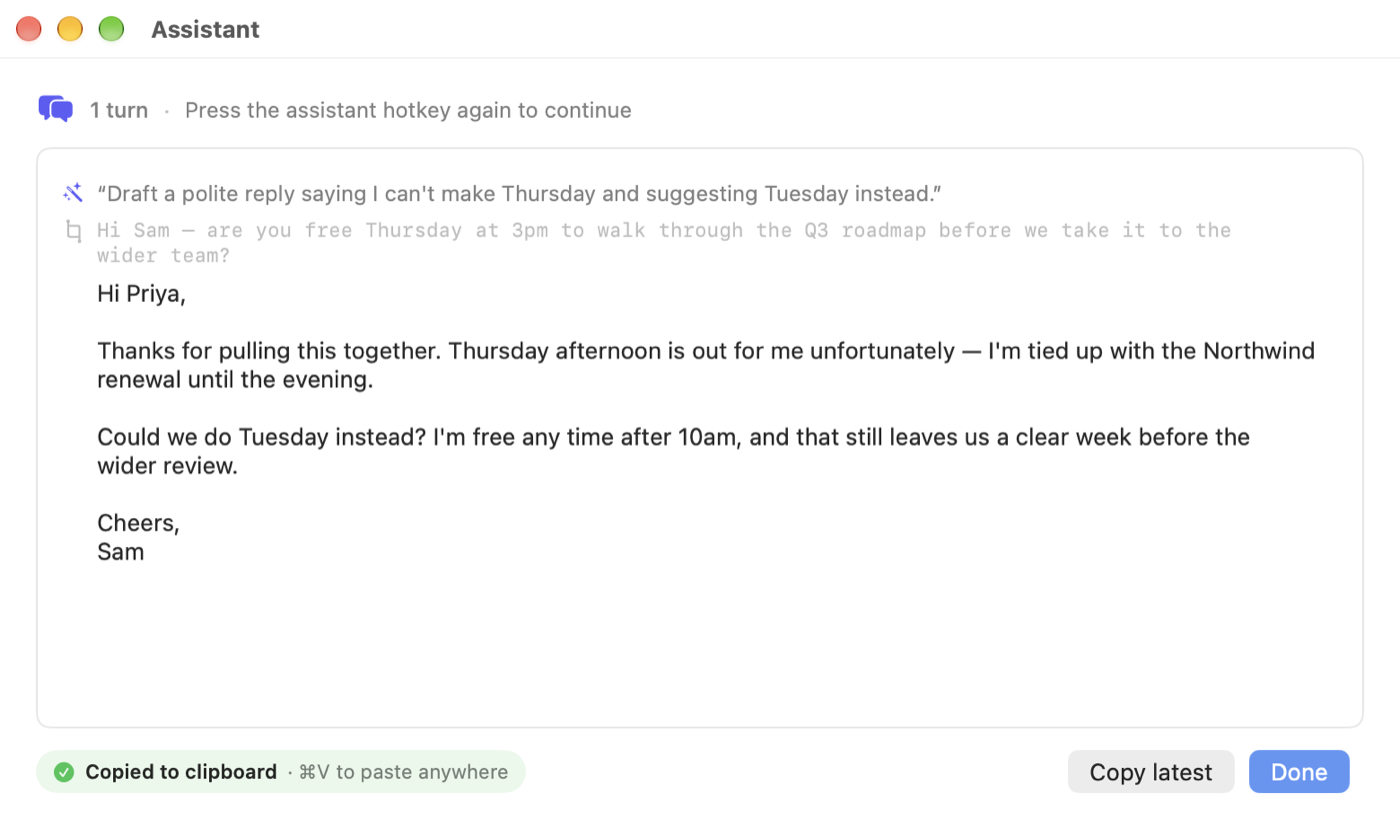
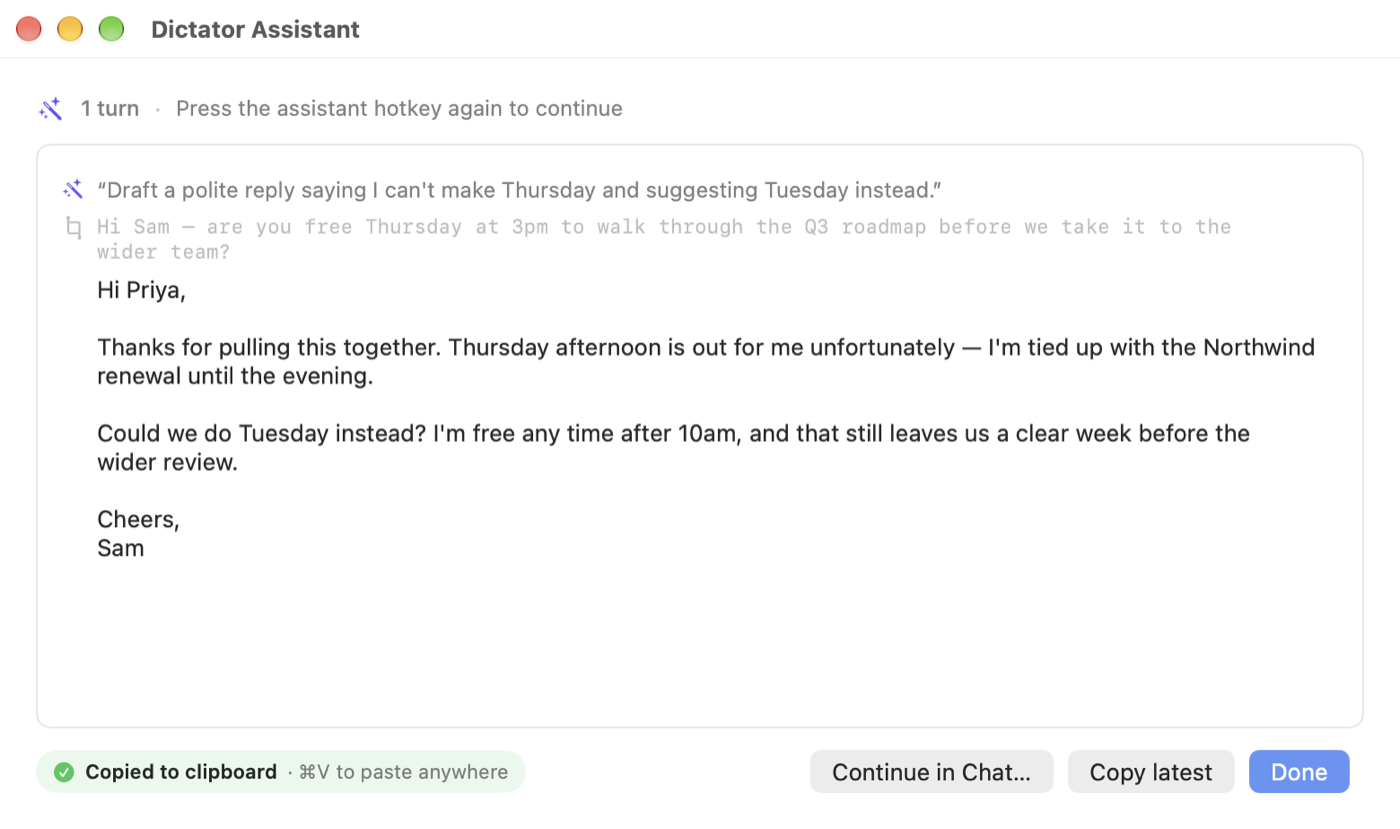
Journal and chat screenshots, and a fresh set of the rest
Screenshot mode gains `journal` and `chat` shots, seeded from DemoFixtures:
ten days of entries written through JournalWriter under a relative template
(the default's `~` isn't redirected, so it would write into the real
journal), and one chat that reads the journal and saves a note. In a capture
the chat treats the model as downloaded and names Notes as the insert
target, rather than whatever the person running it has in front.

The journal loads its days in a Task, which can't run while the capture is
still inside run()'s main-queue block, so that shot finishes from a timer.

assistant-draft had been failing since the window was retitled "Dictator
Assistant", and the script kept publishing the PNG left over from the last
good run. It now deletes each raw capture first. The script also falls back
to Xcode.app now that Xcode-beta is gone. Every shot is re-rendered.

Claude-Session: https://claude.ai/code/session_01B4YGAec7pNRsE2zTy139Gu

diff --git a/Sources/Dictator/Screenshots/ScreenshotRunner.swift b/Sources/Dictator/Screenshots/ScreenshotRunner.swift
@@ -50,6 +50,8 @@ enum ScreenshotRunner {
         case "hud-styles":      captureHUDStyles()
         case "assistant-draft": captureAssistantDraft()
         case "demo-history":    captureDemoHistory()
+        case "journal":         captureJournal()
+        case "chat":            captureChat()
         default:
             NSLog("[Screenshot] Unknown shot '\(ScreenshotMode.shot ?? "")' for Dictator")
             exit(64)
@@ -80,6 +82,79 @@ enum ScreenshotRunner {
         for record in DemoFixtures.historyRecords().reversed() {
             DictationHistory.shared.append(record)
         }
+    }
+
+    /// The journal fixtures, written through `JournalWriter` into this capture
+    /// process's throwaway synced folder so the window reads them the way it
+    /// reads a real journal.
+    private static func seedJournal() {
+        AppState.shared.settings.journalPathTemplate = DemoFixtures.journalPathTemplate
+        let settings = AppState.shared.settings
+        let calendar = Calendar.current
+        let today = calendar.startOfDay(for: Date())
+        for entry in DemoFixtures.journalEntries {
+            guard let day = calendar.date(byAdding: .day, value: -entry.daysAgo, to: today),
+                  let date = calendar.date(
+                      bySettingHour: entry.hour, minute: entry.minute, second: 0, of: day)
+            else { continue }
+            do {
+                try JournalWriter.append(
+                    text: entry.text,
+                    pathTemplate: settings.journalPathTemplate,
+                    headerTemplate: settings.journalHeaderTemplate,
+                    entryTemplate: settings.journalEntryTemplate,
+                    appName: nil,
+                    date: date)
+            } catch {
+                fail("journal seed: \(error.localizedDescription)")
+            }
+        }
+    }
+
+    /// One chat: the journal read as a tool, a note saved from it, and the
+    /// reply. The note is written to disk for real, because the file card
+    /// re-reads it on every render.
+    private static func seedChat() -> UUID {
+        let modelID = "mlx-community/Qwen3.5-4B-4bit"
+        AppState.shared.settings.llmEngine = .mlx
+        AppState.shared.settings.llmModelID = modelID
+
+        let start = Date().addingTimeInterval(-90)
+        var thread = ChatThread(createdAt: start, modelID: modelID)
+        thread.append(ChatMessage(kind: .user, text: DemoFixtures.chatUserMessage, timestamp: start))
+
+        var search = ChatMessage(
+            kind: .tool, text: "Read the journal", timestamp: start.addingTimeInterval(4),
+            toolCall: ChatWireToolCall(
+                name: "search_journal",
+                arguments: .object(["query": .string("Northwind"), "days_back": .int(14)])))
+        search.toolResult = DemoFixtures.chatJournalResult
+        thread.append(search)
+
+        guard let folder = try? ChatFiles.folder(for: thread) else { fail("no chat folder") }
+        thread.filesFolderName = folder.folderName
+        try? FileManager.default.createDirectory(at: folder.url, withIntermediateDirectories: true)
+        let noteURL = folder.url.appendingPathComponent(DemoFixtures.chatNoteName)
+        let noteData = Data(DemoFixtures.chatNote.utf8)
+        do { try noteData.write(to: noteURL) } catch { fail("chat note: \(error.localizedDescription)") }
+
+        var save = ChatMessage(
+            kind: .tool, text: "Save a file", timestamp: start.addingTimeInterval(9),
+            toolCall: ChatWireToolCall(
+                name: "create_file",
+                arguments: .object([
+                    "name": .string(DemoFixtures.chatNoteName),
+                    "contents": .string(DemoFixtures.chatNote),
+                ])),
+            producedFile: ProducedFile(
+                name: DemoFixtures.chatNoteName, path: noteURL.path, byteCount: noteData.count))
+        save.toolResult = "Saved \(DemoFixtures.chatNoteName)."
+        thread.append(save)
+
+        thread.append(ChatMessage(
+            kind: .assistant, text: DemoFixtures.chatReply, timestamp: start.addingTimeInterval(14)))
+        ChatStore.shared.upsert(thread)
+        return thread.id
     }
 
     // MARK: - Shots
@@ -124,10 +199,47 @@ enum ScreenshotRunner {
         let controller = AssistantResultController()
         controller.showThread(id: id, surface: true)
         ScreenshotWindowCapture.settle(seconds: 1.0)
-        guard let window = ScreenshotWindowCapture.window(where: { $0.title == "Assistant" }) else {
+        guard let window = ScreenshotWindowCapture.window(where: { $0.title == "Dictator Assistant" }) else {
             fail("no assistant window")
         }
         ScreenshotWindowCapture.place(window, size: NSSize(width: 780, height: 430))
+        ScreenshotWindowCapture.settle(seconds: 1.0)
+        write(window)
+    }
+
+    private static func captureJournal() {
+        seedJournal()
+        JournalWindowController.shared.show()
+        // The journal loads its days in a `Task`, and main-actor tasks can't
+        // run while we're still inside the main-queue block `run()` scheduled —
+        // `settle()` spins the run loop, not the main queue. Return, and finish
+        // from a timer, whose callback leaves the main queue free to drain.
+        Timer.scheduledTimer(withTimeInterval: 1.0, repeats: false) { _ in
+            MainActor.assumeIsolated { finishJournal() }
+        }
+    }
+
+    private static func finishJournal() {
+        ScreenshotWindowCapture.settle(seconds: 1.0)
+        guard !JournalStore.shared.populatedKeys.isEmpty else { fail("journal loaded no days") }
+        guard let window = ScreenshotWindowCapture.window(where: { $0.title == "Dictator Journal" }) else {
+            fail("no journal window")
+        }
+        ScreenshotWindowCapture.place(window, size: NSSize(width: 940, height: 640))
+        ScreenshotWindowCapture.settle(seconds: 1.0)
+        write(window)
+    }
+
+    private static func captureChat() {
+        let id = seedChat()
+        let controller = ChatWindowController.shared
+        controller.show()
+        controller.select(threadID: id)
+        ScreenshotWindowCapture.settle(seconds: 1.5)
+        guard let window = ScreenshotWindowCapture.window(where: { $0.title == "Dictator Chat" }) else {
+            fail("no chat window")
+        }
+        ScreenshotWindowCapture.place(window, size: NSSize(width: 940, height: 700))
         ScreenshotWindowCapture.settle(seconds: 1.0)
         write(window)
     }

diff --git a/Sources/Dictator/Demo/DemoFixtures.swift b/Sources/Dictator/Demo/DemoFixtures.swift
@@ -326,4 +326,59 @@ enum DemoFixtures {
 
     Follow up with Tom about the revised estimate.
     """
+
+    // MARK: - Journal
+
+    /// Where the journal fixtures live: relative, so it resolves under the
+    /// synced folder. The shipping default is `~/Documents/…`, which would
+    /// escape a screenshot run's throwaway data root and land in the real
+    /// journal.
+    static let journalPathTemplate = "Journal/{yyyy}/{MM}/{yyyy}-{MM}-{dd}.md"
+
+    /// A week and a bit of entries, `(days ago, hour, minute, text)`, oldest
+    /// first so they append in order. Today carries three so the page has a
+    /// shape; the rest exist to put dots on the calendar.
+    static let journalEntries: [(daysAgo: Int, hour: Int, minute: Int, text: String)] = [
+        (11, 21, 40, "First week with the new team structure. Tom seems relieved to have fewer meetings; Priya less so."),
+        (9, 7, 55, "Northwind want a pilot before they commit to the renewal. Fair. I'd want the same."),
+        (6, 22, 10, "Couldn't switch off tonight. Wrote the pilot plan three times in my head and none of them were better than the one on paper."),
+        (4, 13, 5, "Priya suggested moving the onboarding work into Q4 so the pilot gets our best people. She's right, and I should have seen it first."),
+        (2, 18, 30, "Lumenfield demo went well. Tom ran it, not me, and it was better for it."),
+        (1, 8, 20, "Short one. Northwind call moved to Thursday. More time to get the import dry-run finished."),
+        (0, 8, 14, "Slept badly again. The Northwind renewal is taking up more room in my head than it deserves. Talk to Priya before Thursday about what we can actually promise."),
+        (0, 12, 47, "Walked to the river at lunch instead of eating at my desk. Two ideas came out of it: a shorter Lumenfield trial, and letting Tom own the pilot outright. I keep saying I'll let go of things."),
+        (0, 18, 5, "Good day in the end. The dry-run works, and Priya has the deck. Remember this the next time I spend a whole night worrying about a call."),
+    ]
+
+    // MARK: - Chat
+
+    /// A chat that shows the two things the window is for: a tool reading the
+    /// user's own data, and a file made from it.
+    static let chatUserMessage = "What have I written about Northwind lately? Turn it into a short note I can take into Thursday's call."
+
+    static let chatJournalResult = """
+    4 entries mention Northwind:
+    - today 08:14: Slept badly again. The Northwind renewal is taking up more room…
+    - yesterday 08:20: Northwind call moved to Thursday…
+    - 6 days ago 22:10: Couldn't switch off tonight. Wrote the pilot plan three times…
+    - 9 days ago 07:55: Northwind want a pilot before they commit to the renewal…
+    """
+
+    static let chatNoteName = "northwind-thursday.md"
+
+    static let chatNote = """
+    # Northwind — Thursday
+
+    - They want a pilot before committing to the renewal
+    - Import dry-run now works; show it rather than describe it
+    - Tom owns the pilot; Priya has the roadmap deck
+    - Onboarding work moves to Q4 so the pilot gets the best people
+    - Don't promise an SSO date
+    """
+
+    static let chatReply = """
+    You've mentioned Northwind four times in the last ten days. The short version: they want a pilot before they'll renew, the call moved to Thursday, and since then the import dry-run has started working.
+
+    I've saved the note above as **northwind-thursday.md**. One thing it doesn't cover: you haven't written down what the pilot would cost them — worth deciding before the call.
+    """
 }

diff --git a/Sources/Dictator/UI/Chat/ChatDetailRoot.swift b/Sources/Dictator/UI/Chat/ChatDetailRoot.swift
@@ -61,7 +61,9 @@ enum ChatAvailability {
             let name = ModelCatalog.llm(id: id)?.displayName ?? id
             return .unavailable(.modelNotCapable(name))
         }
-        guard ModelManager.shared.llmStates[id] == .ready else {
+        // A screenshot run loads no models, and the window it's there to
+        // capture is the one a user with a downloaded model sees.
+        guard ModelManager.shared.llmStates[id] == .ready || ScreenshotMode.isActive else {
             return .unavailable(.modelNotDownloaded(model.displayName))
         }
         return .ready

diff --git a/Sources/DictatorCore/Screenshots/ScreenshotMode.swift b/Sources/DictatorCore/Screenshots/ScreenshotMode.swift
@@ -13,7 +13,8 @@ import Foundation
 /// Contract (see `scripts/mac-screenshots.sh`):
 ///
 ///   - `DICTATOR_SCREENSHOT=<shot>` — which capture to perform.
-///     Dictator: `modes`, `assistant-draft`, `hud-styles`.
+///     Dictator: `modes`, `assistant-draft`, `hud-styles`, `journal`, `chat`,
+///     `demo-history`.
 ///     Dictator Meetings: `live-recording`, `notes`, `coach`.
 ///   - `DICTATOR_SCREENSHOT_OUT=<path.png>` — where to write the PNG.
 ///   - `DICTATOR_SCREENSHOT_DATA=<dir>` — a throwaway data root. EVERY

diff --git a/Sources/Dictator/Chat/ChatInsertion.swift b/Sources/Dictator/Chat/ChatInsertion.swift
@@ -43,6 +43,9 @@ final class ChatInsertion {
     /// A name for the button, so it can say where the text is going rather than
     /// just "Insert". nil when there's nowhere to send it.
     var targetName: String? {
+        // A screenshot run would otherwise print whatever the person running
+        // it happened to have in front.
+        if ScreenshotMode.isActive { return "Notes" }
         guard let target, !target.isTerminated else { return nil }
         return target.localizedName
     }

diff --git a/docs/plans/site-screenshots.md b/docs/plans/site-screenshots.md
@@ -1,8 +1,8 @@
 # Marketing site screenshots — how they're made
 
-The six Mac/Meetings shots on `docs/index.html` are **generated by the apps
+The eight Mac/Meetings shots on `docs/index.html` are **generated by the apps
 themselves**, not grabbed by hand. Re-run one command after a UI change and all
-six — plus the off-site `demo-history` shot — are rebuilt from the current code
+eight — plus the off-site `demo-history` shot — are rebuilt from the current code
 with fabricated data:
 
 ```bash
@@ -19,6 +19,8 @@ the last section.)
 | `docs/media/mac/modes.png` | Settings → Dictation → Modes: the mode list with style badges and app-binding counts | `modes` |
 | `docs/media/mac/assistant-draft.png` | Assistant mode's floating result window with a drafted reply | `assistant-draft` |
 | `docs/media/mac/hud-styles.png` | Settings → General, down to the four-card HUD gallery | `hud-styles` |
+| `docs/media/mac/journal.png` | The Journal window on today: calendar dots on the days with entries, three timestamped entries on the page | `journal` |
+| `docs/media/mac/chat.png` | The Chat window: a `search_journal` call, a saved note's file card, and the reply | `chat` |
 | `docs/media/mac/demo-history.png` | Settings → Dictation → History with the Demo-mode fixture dictations. **Not on `docs/index.html`** — it exists so the fixtures behind Demo mode can be eyeballed like any other shot | `demo-history` |
 | `docs/media/meetings/live-recording.png` | Dictator Meetings mid-call: pad + live notes left, levels, key points and live transcript right | `live-recording` |
 | `docs/media/meetings/notes.png` | A finished meeting on the Notes tab, with the Details inspector | `notes` |
@@ -32,7 +34,7 @@ there's no changelog entry for any of it.
 
 | Variable | Meaning |
 |---|---|
-| `DICTATOR_SCREENSHOT=<shot>` | Which capture to perform. Dictator: `modes`, `assistant-draft`, `hud-styles`, `demo-history`. Dictator Meetings: `live-recording`, `notes`, `coach`. |
+| `DICTATOR_SCREENSHOT=<shot>` | Which capture to perform. Dictator: `modes`, `assistant-draft`, `hud-styles`, `journal`, `chat`, `demo-history`. Dictator Meetings: `live-recording`, `notes`, `coach`. |
 | `DICTATOR_SCREENSHOT_OUT=<path.png>` | Where to write the 2× PNG. |
 | `DICTATOR_SCREENSHOT_DATA=<dir>` | Throwaway data root. **Every** persistence path resolves under it. Unset falls back to a per-process temp directory — never the real locations. |
 
@@ -99,7 +101,15 @@ All of it is invented. No real contact, client, meeting or dictation appears.
   modes (Quick/Raw, Clean, Polished, Messages bound to Slack + Signal +
   Messages, Email/Polished bound to Mail with "Always use British spelling"),
   seven dictation-history records, three assistant conversations, five
-  assistant-memory lines, seven dictionary rules and a Scratchpad note.
+  assistant-memory lines, seven dictionary rules and a Scratchpad note, plus
+  ten days of journal entries and the one chat the `chat` shot shows.
+
+  The journal fixtures use a *relative* path template on purpose: the shipping
+  default is `~/Documents/Dictator/…`, and `~` isn't redirected by screenshot
+  mode, so a capture on the default would write into the real journal. The
+  `chat` shot names Notes as the insert target and treats the model as
+  downloaded (no model is ever loaded in a capture); both overrides are
+  `ScreenshotMode.isActive` checks.
 - **`Sources/Dictator/Screenshots/ScreenshotRunner.swift`** — the Dictator side.
   `seedSettings()` / `seedConversation()` / `seedHistory()` push the fixtures
   above into this capture process's throwaway stores. `ScreenshotScroll` is the
@@ -138,13 +148,13 @@ aspect changes, update the `width`/`height` attributes on its `<img>` in
 `docs/index.html` — they only reserve layout space, but wrong values make the
 page jump as the images load.
 
-All six slots are live (`<figure class="shot">` with a plain `src=`). The old
+All eight slots are live (`<figure class="shot">` with a plain `src=`). The old
 `data-shot=` placeholder mechanism and its `.shot-pending` "Coming" panel are
 still in the stylesheet for any *future* slot: to add one, copy an existing
 `figure.shot` block, set `class="shot shot--placeholder"`, rename `src=` to
 `data-shot=`, and add back a `<p class="shot-pending">` panel.
 
-## Adding a seventh shot
+## Adding another shot
 
 1. Add a case to the relevant runner's `switch ScreenshotMode.shot` and a
    `capture…()` that opens the state you want.
